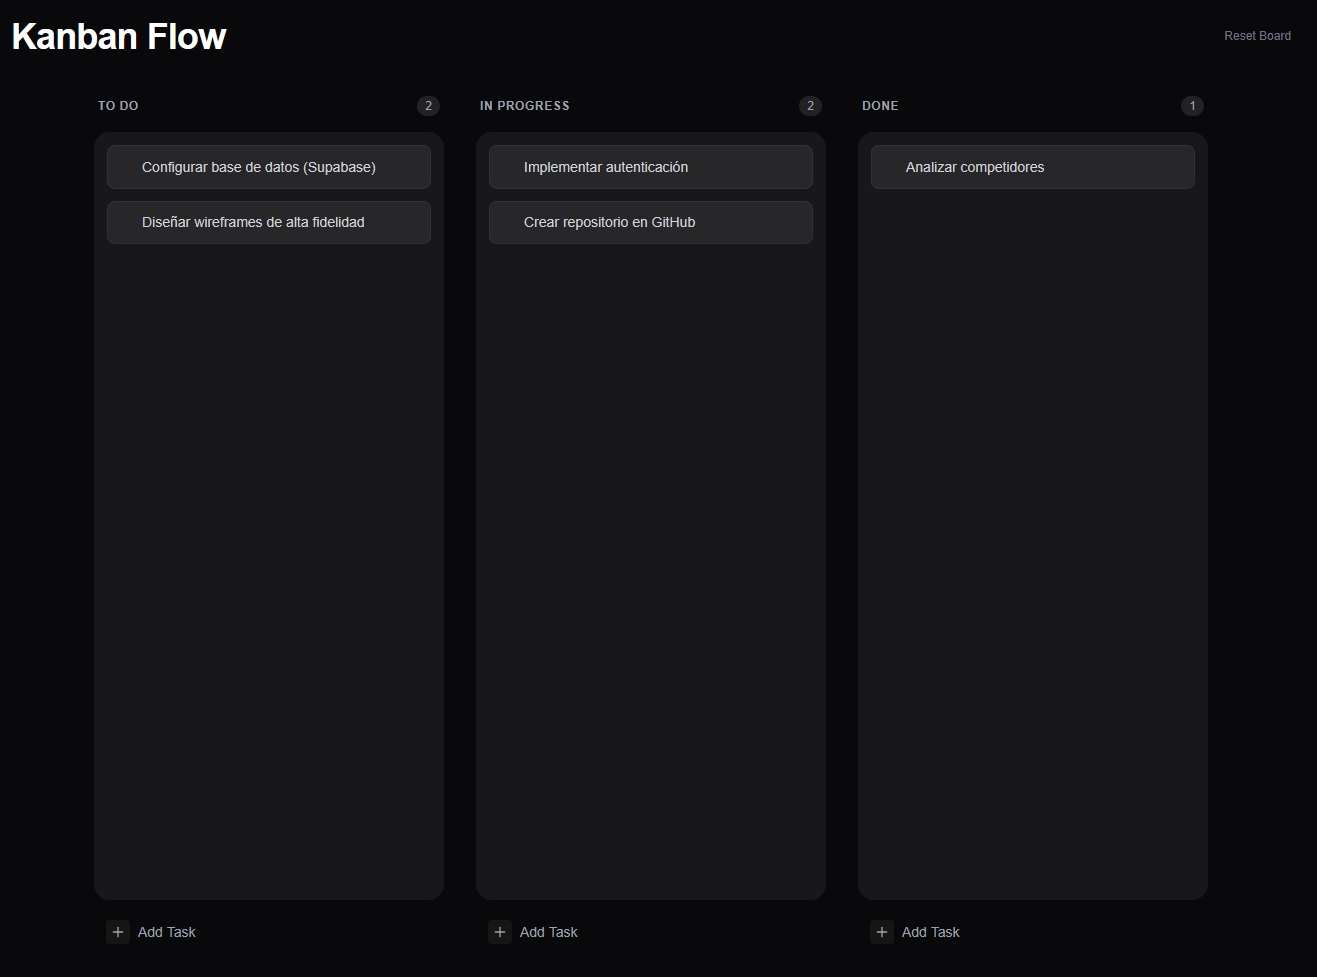
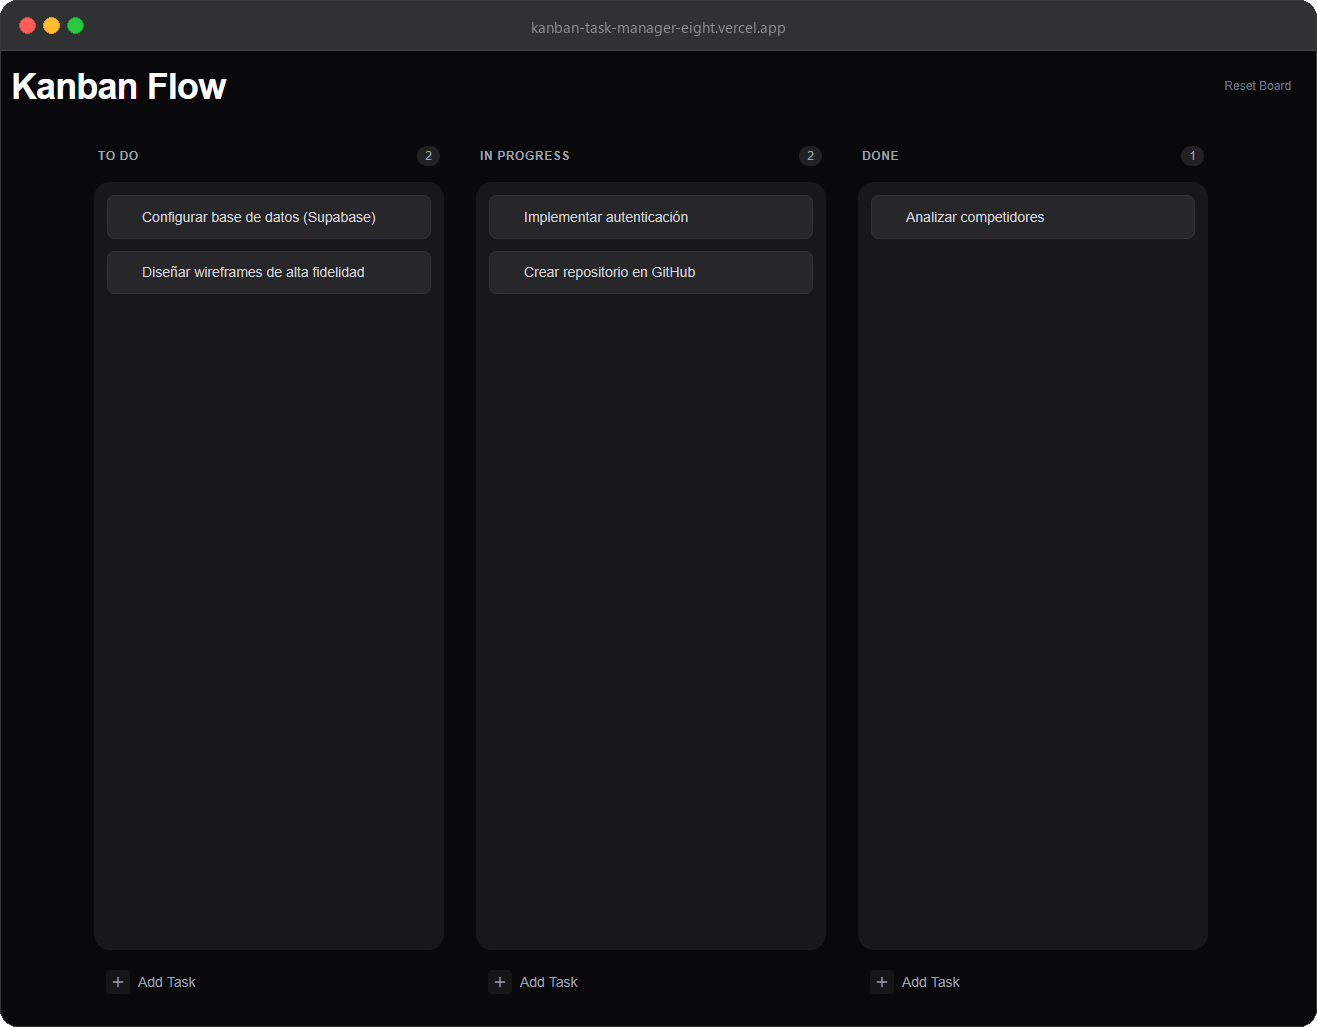
Rewrite README and wrap preview in a macOS window frame

diff --git a/README.md b/README.md
@@ -1,25 +1,44 @@
-# 📋 Kanban Flow - Task Manager
+# Kanban Flow
 
-A high-performance Kanban board application built with React, featuring seamless drag-and-drop functionality and local persistence. Designed to mimic professional tools like Linear or Trello.
+A three-column kanban board with drag and drop, built with React and dnd-kit. The board
+persists in `localStorage`, so a reload keeps your tasks without needing a backend.
 
-![Project Preview](./preview.png)
+**[Live demo](https://kanban-task-manager-eight.vercel.app)**
 
-## 🚀 Live Demo
-[View Live Project](https://kanban-task-manager-eight.vercel.app/)
+![Board preview](./preview.png)
 
-## ✨ Key Features
-* **👆 Drag & Drop API:** Powered by `@dnd-kit` for buttery smooth interactions (sortable lists & columns).
-* **💾 Local Persistence:** Tasks are saved in the browser's LocalStorage, so you never lose data on refresh.
-* **⚡ Reactive State:** Instant UI updates when moving, creating, or deleting tasks.
-* **🎨 Modern UI:** Clean, dark-themed interface built with Tailwind CSS.
-* **📱 Smart Columns:** Auto-detection of empty columns for drop zones.
+## What it does
 
-## 🛠 Tech Stack
-* React + Vite
-* Tailwind CSS
-* @dnd-kit (Core & Sortable)
-* Lucide React (Icons)
-* UUID (Unique ID generation)
+- Drag tasks between Backlog, In Progress and Done — including into empty columns
+- Create, rename and delete tasks directly on the board
+- State is written to `localStorage` under the `kanban-tasks` key on every change
+- "Reset board" restores the seed data from `src/data/board.js`
 
----
-Made with ❤ by [Carlos Gordillo](https://github.com/c26200)
+## Stack
+
+React 19 · Vite · Tailwind CSS · @dnd-kit · uuid
+
+## Run locally
+
+```bash
+npm install
+npm run dev
+```
+
+## Structure
+
+```
+src/
+├── components/
+│   ├── Column.jsx             # Column shell and drop target
+│   ├── SortableTask.jsx       # Sortable wrapper around each task
+│   └── TaskCard.jsx
+├── data/board.js              # Columns and seed tasks
+└── App.jsx                    # Drag context, CRUD and persistence
+```
+
+## Notes
+
+There is no backend. Clearing the browser's site data resets the board to the seed tasks.
+Task order within a column is part of the same array as the tasks themselves, so moving a
+task also reorders it in the persisted list.
